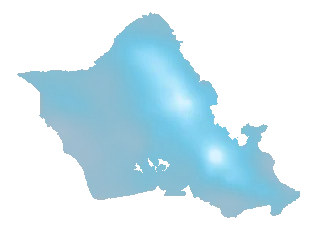
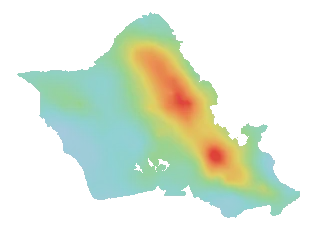
Colour rainfall blue to red, and spread the layer hues
The single-hue blue ramp made the rainfall field legible only as
"somewhere between dark and light". It now runs the full spectrum, blue
through teal, green and yellow to red, with every adjacent step separated
by dE 14 or more so the bands are individually readable.

Lightness peaks at yellow rather than at the red end, which is
unavoidable for a blue-to-red ramp since yellow is intrinsically the
lightest hue there is. Ordering is carried by hue instead -- blue-cool-less,
red-hot-more, which nobody has to be taught -- and reinforced by opacity,
so the dry end fades toward transparent and lets the terrain through while
the wet end is both the most saturated and the most solid.

The vector layers were three blues and two creams. They are now four
validated hues: violet moku, green watersheds, amber ahupua'a, blue
streams. Watersheds and ahupua'a swapped places, because green sat next
to the streams' blue at dE 12.7 and green next to amber is 17.4.

A raster covers its whole ramp, so one swatch cannot stand for it: the
legend now draws the gradient itself, which doubles as the key.

Mean annual contours removed. They were a thirty-year normal shown
against twelve actual months, and the filled field says it better.

Changed region(s): [[0.2812, 0.084, 0.9062, 0.868], [0.0938, 0.308, 0.3125, 0.476]]

diff --git a/src/ui/Legend.tsx b/src/ui/Legend.tsx
@@ -77,7 +77,17 @@ export function Legend({ loaded, activeLayerIds, armedLayerIndex, year, scenario
               onClick={() => onToggle(layer.id)}
               aria-pressed={active}
             >
-              <span className="legend__swatch" style={{ background: layer.color }} aria-hidden />
+              <span
+                className="legend__swatch"
+                style={{
+                  // A raster covers its entire ramp, so the swatch shows the ramp
+                  // rather than pretending one colour represents it.
+                  background: layer.ramp
+                    ? `linear-gradient(to top, ${layer.ramp.join(', ')})`
+                    : layer.color,
+                }}
+                aria-hidden
+              />
               {layer.icon ? <img className="legend__icon" src={layer.icon} alt="" /> : null}
               <span className="legend__text">
                 <span className="legend__name">{layer.name}</span>

diff --git a/src/story/types.ts b/src/story/types.ts
@@ -212,6 +212,13 @@ export interface StoryLayer {
   /** Raster layers only: the frames, and where to put them. */
   frames?: RasterFrame[];
   corners?: ImageCorners;
+  /**
+   * The colour ramp baked into a raster's pixels, low to high.
+   *
+   * A raster spans its whole ramp, so a single swatch cannot stand for it: the
+   * legend draws the gradient instead, which doubles as the key.
+   */
+  ramp?: string[];
   color: string;
   outlineColor?: string;
   /** For `line` layers this is the stroke width; supports a property multiplier. */
